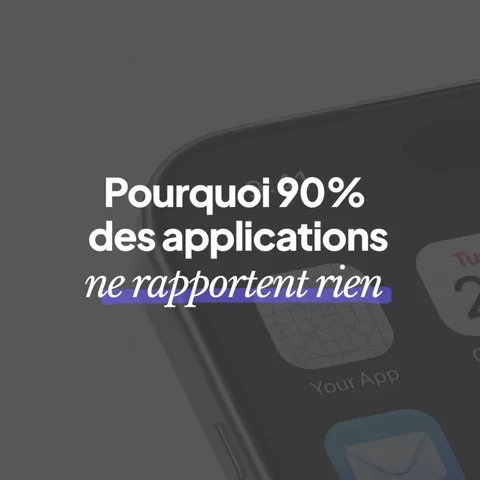
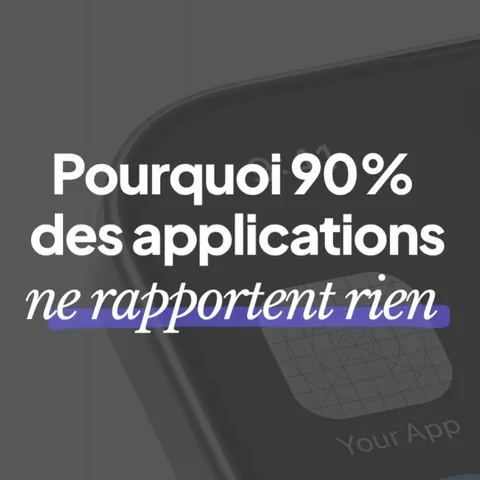
fix(projets): navbar à gauche, carte Instagram épurée (image zoomée, @noecalmes.app seul), story milieu sans bord violet

diff --git a/src/Projets.jsx b/src/Projets.jsx
@@ -215,7 +215,7 @@ export default function Projets({ onBack }) {
       <header className="fixed inset-x-0 top-2.5 md:top-[18px] z-50 flex justify-center px-4 md:px-6">
         <div className="w-full max-w-210">
           <div className="backdrop-blur-[12px] border border-[#70707029] shadow-[0_1px_3px_#00000017] bg-[#fffefc99] rounded-[40px]">
-            <div className="flex items-center justify-center h-[64px] md:h-[68px] px-4">
+            <div className="flex items-center h-[64px] md:h-[68px] pl-3 pr-4 md:pl-3.5">
               <button
                 onClick={onBack}
                 className="flex items-center gap-3 cursor-pointer group min-w-0"
@@ -313,10 +313,7 @@ export default function Projets({ onBack }) {
           <h2 className="font-heading text-text font-bold text-[1.15rem] text-center mb-1">
             Ce qu'en disent mes clients
           </h2>
-          <p className="text-grey text-[0.85rem] text-center mb-7">
-            Des messages reçus, tels quels.
-          </p>
-          <div className="flex flex-col sm:flex-row items-center sm:items-start justify-center gap-6 sm:gap-5">
+          <div className="mt-7 flex flex-col sm:flex-row items-center sm:items-start justify-center gap-6 sm:gap-5">
             {TESTIMONIALS.map((t) => (
               <img
                 key={t.src}
@@ -354,19 +351,14 @@ export default function Projets({ onBack }) {
             src="/assets/images/projets/ig-post-90.webp"
             alt="Publication Instagram : pourquoi 90 % des applications ne rapportent rien"
             loading="lazy"
-            className="w-20 h-20 sm:w-24 sm:h-24 rounded-[14px] object-cover shrink-0 border border-black/5 shadow-[0_2px_10px_rgba(3,52,117,0.10)]"
+            className="w-24 h-24 sm:w-28 sm:h-28 rounded-[14px] object-cover shrink-0 border border-black/5 shadow-[0_2px_10px_rgba(3,52,117,0.10)]"
           />
           <span className="min-w-0 flex-1">
             <span className="block font-heading text-text font-bold text-[1rem] leading-snug">
               « Pourquoi 90&nbsp;% des applications ne rapportent rien »
             </span>
-            <span className="mt-1 flex items-center gap-1.5 text-grey text-[0.78rem] font-medium">
-              <svg className="shrink-0" width="13" height="13" viewBox="0 0 24 24" fill="none" stroke="currentColor" strokeWidth="2" strokeLinecap="round" strokeLinejoin="round" aria-hidden="true">
-                <rect x="2" y="2" width="20" height="20" rx="5" />
-                <circle cx="12" cy="12" r="4.5" />
-                <circle cx="17.5" cy="6.5" r="0.5" fill="currentColor" stroke="none" />
-              </svg>
-              L'analyse est épinglée sur mon profil · @noecalmes.app
+            <span className="block mt-1 text-grey text-[0.78rem] font-medium">
+              @noecalmes.app
             </span>
           </span>
           <svg className="text-grey shrink-0" width="18" height="18" viewBox="0 0 24 24" fill="none" stroke="currentColor" strokeWidth="2.5" strokeLinecap="round" strokeLinejoin="round" aria-hidden="true">
